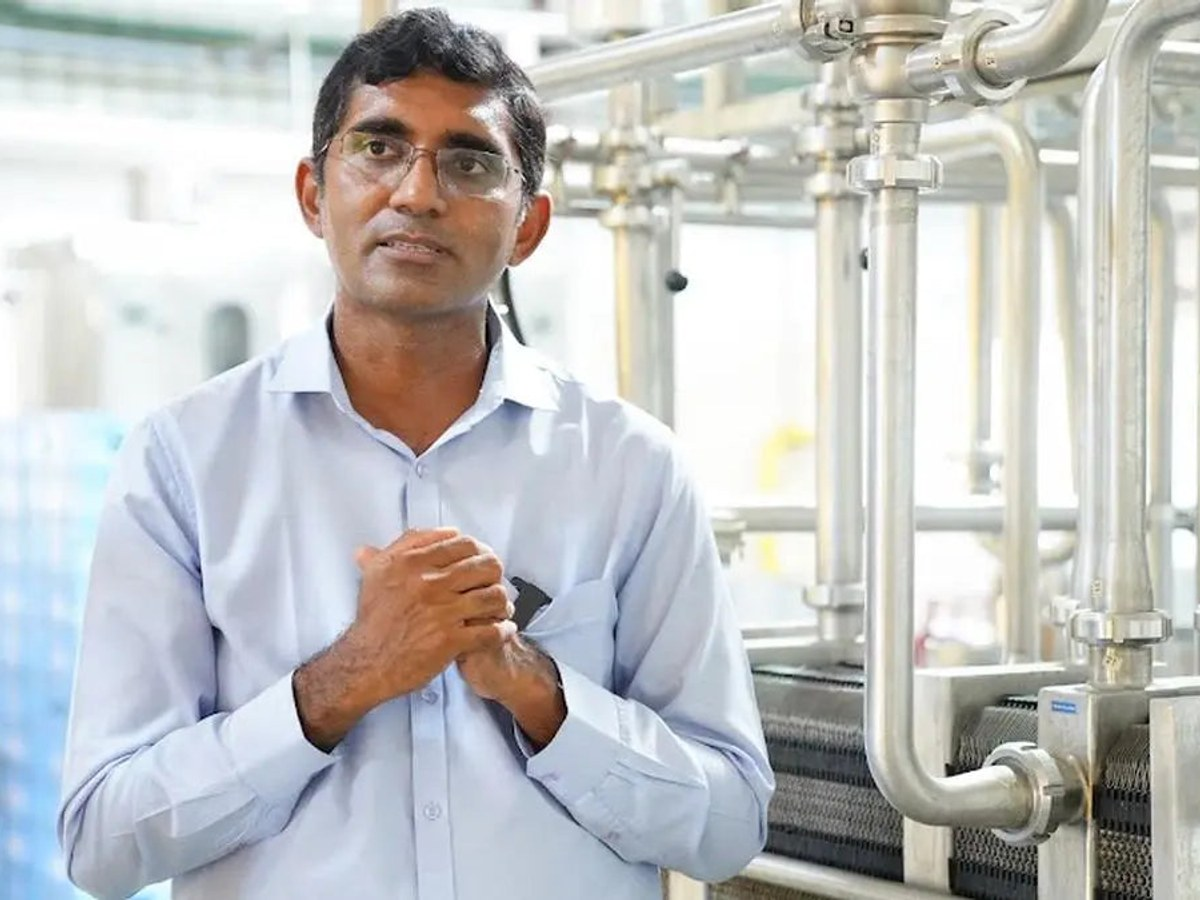
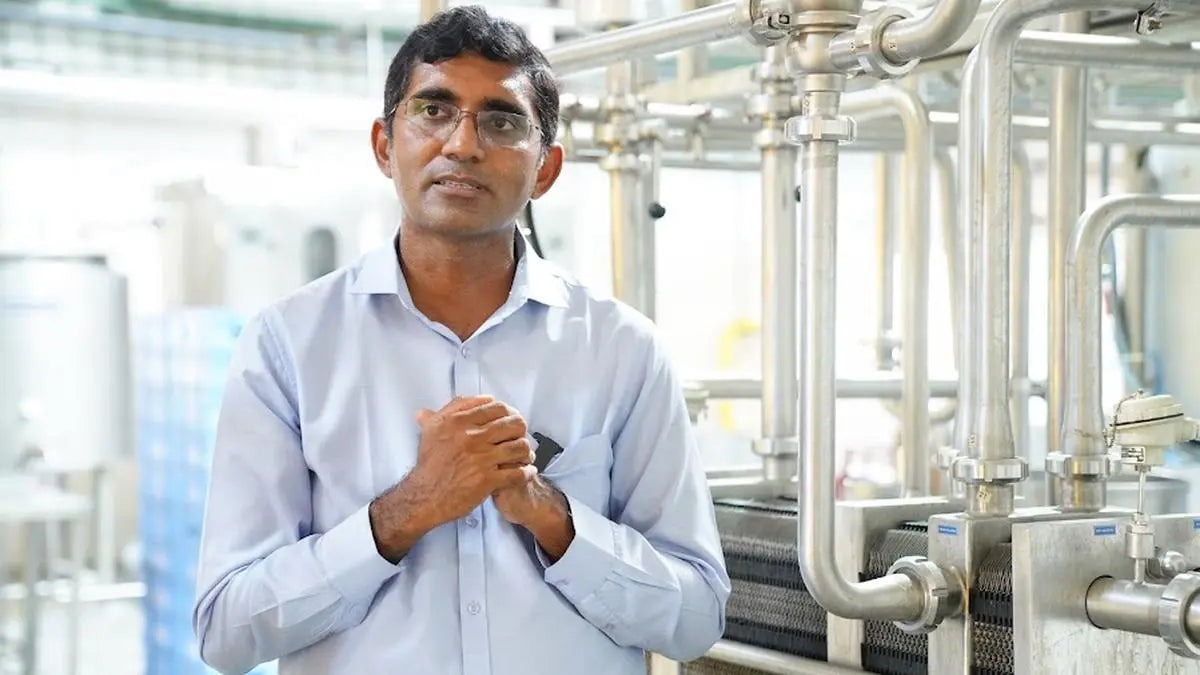
Rebuild the Sid's Farm carousel around the brand and a stated view
The first cut had four problems, all of them fair:

- It named the person whose framework it borrowed. The teaching is the
  point, not the attribution, so the correction slide now reads "here's
  what I learnt" and no one is named anywhere in the deck.
- The founder's face was cropped off. The source is 1200x675 and was
  being resized to a taller 1200x860 target, which upscales and crops
  horizontally. The photo slot is 952x560 — near the same aspect — so
  the source now ships uncropped.
- A carousel about a consumer dairy never showed the product. Added a
  pack lineup composited at the photo slot's aspect, so the brand is
  visible by slide 7 and the logo card lands at slide 3.
- Slides were thin and the deck ended on an open question alone. Every
  slide now carries a complete thought and the closing card states a
  read before it asks anything.

The two rail labels on the correction slide were hardcoded, so they are
now authorable via wrongLabel/rightLabel and default to the old copy.

Figures re-verified against the FY25 RoC filings via Entrackr.

diff --git a/site/lib/slides.ts b/site/lib/slides.ts
@@ -28,7 +28,15 @@ export type Slide =
     a single bar over a wrapped block crosses only the first line and
     dangles past the last one. The author controls the break.
   */
-  | { kind: "correction"; wrong: string[]; right: string }
+  | {
+      kind: "correction";
+      wrong: string[];
+      right: string;
+      /* Rail labels. Default to the teardown voice; override to change whose
+         claim is being struck out and who is answering. */
+      wrongLabel?: string;
+      rightLabel?: string;
+    }
   | { kind: "list"; label: string; items: { k: string; v: string }[]; icon?: IconName }
   | { kind: "cta"; heading: string; sub: string; handle: string }
   /* Single-post kinds — these have to work with no slides either side */

diff --git a/site/app/api/og/slide/route.tsx b/site/app/api/og/slide/route.tsx
@@ -426,7 +426,7 @@ function Body({ slide, dark }: { slide: Slide; dark: boolean }) {
               marginBottom: 26,
             }}
           >
-            THE TAKE EVERYONE HAD
+            {(slide.wrongLabel ?? "THE TAKE EVERYONE HAD").toUpperCase()}
           </div>
 
           {/*
@@ -479,7 +479,7 @@ function Body({ slide, dark }: { slide: Slide; dark: boolean }) {
                   marginBottom: 20,
                 }}
               >
-                WHAT THE NUMBERS SAID
+                {(slide.rightLabel ?? "WHAT THE NUMBERS SAID").toUpperCase()}
               </div>
               <div style={{ display: "flex", fontSize: 38, lineHeight: 1.4, color: ink }}>
                 {slide.right}
